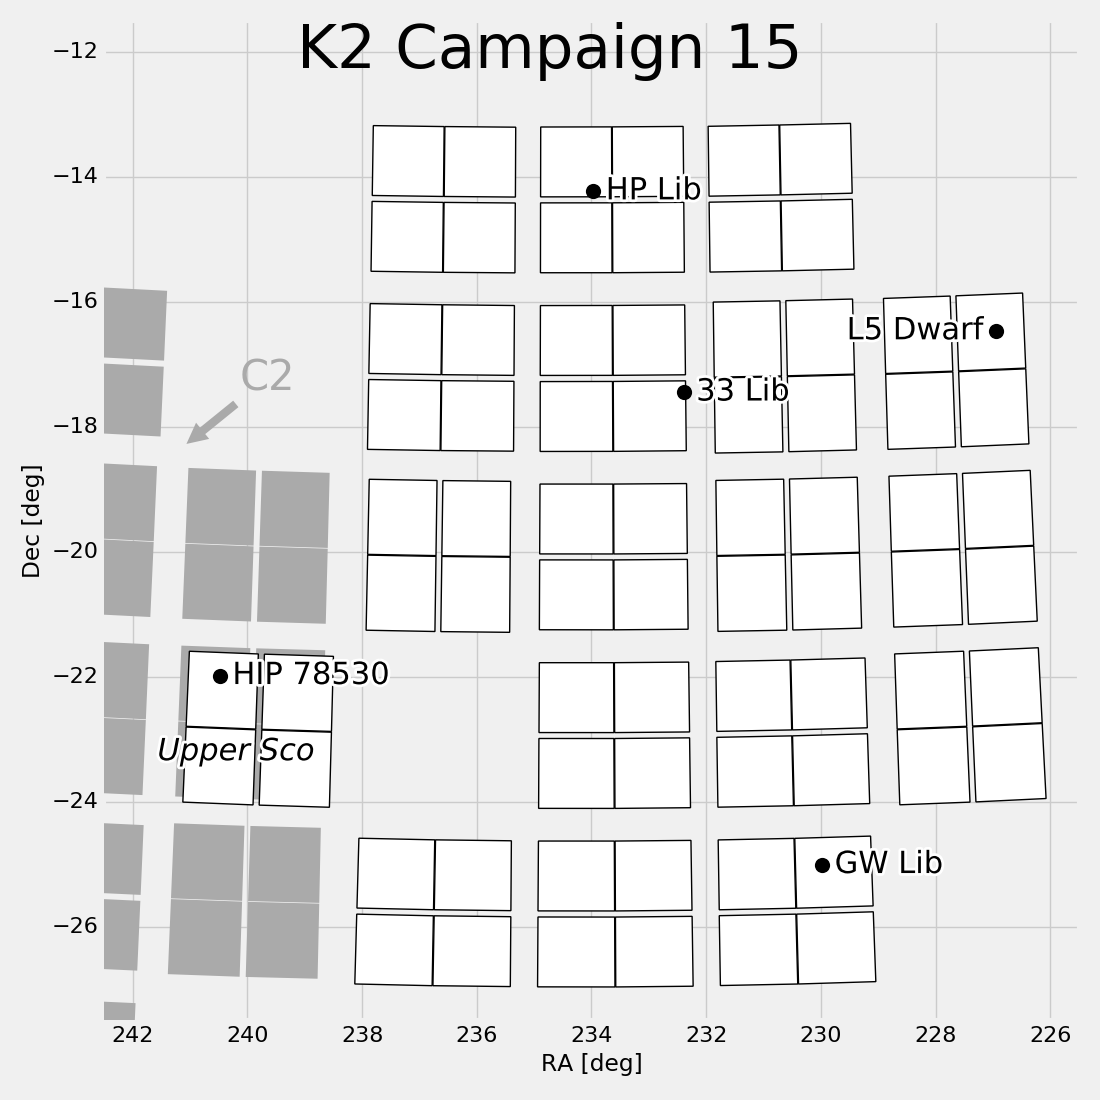
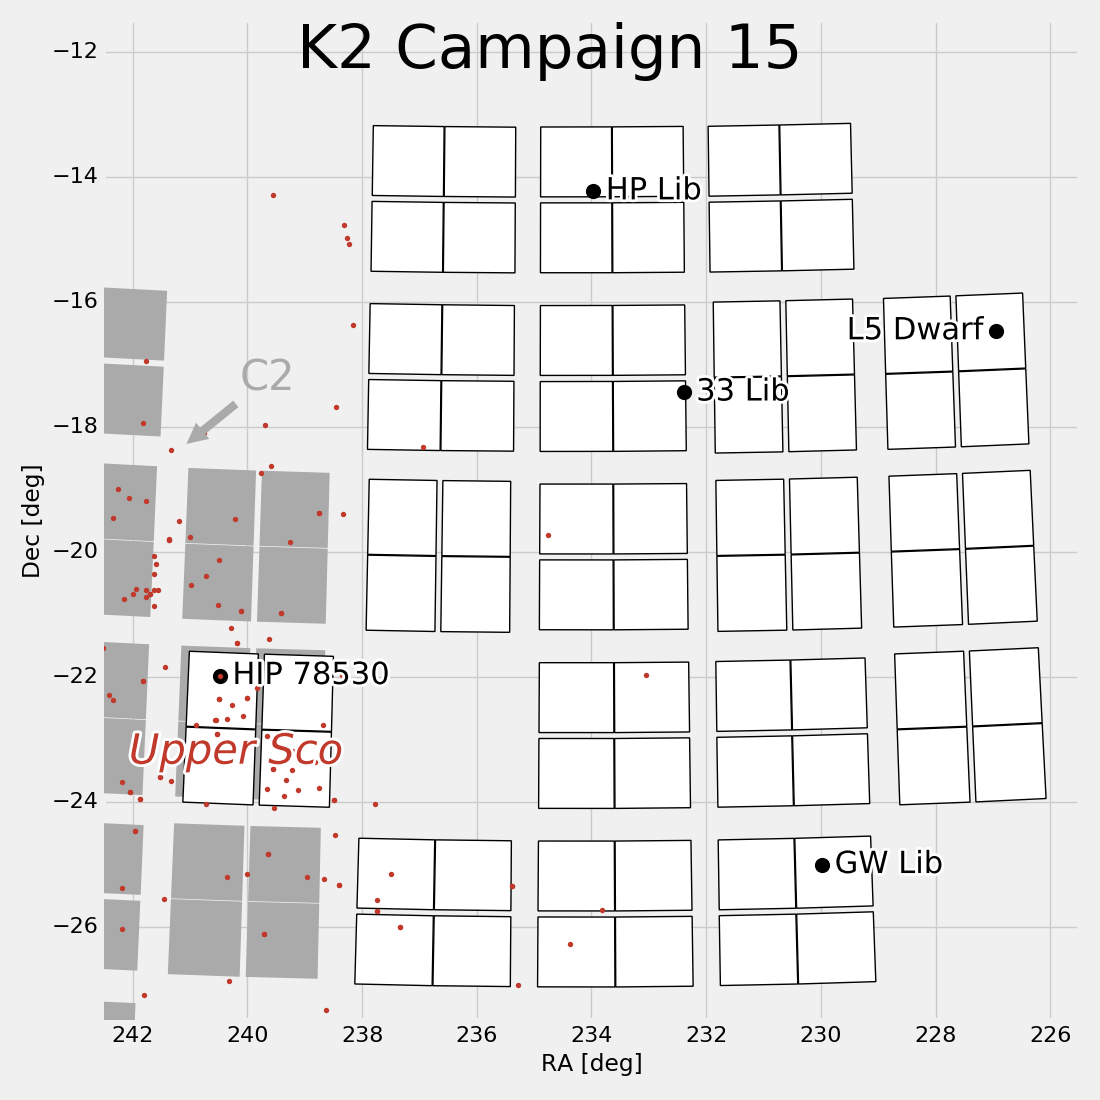
Add upper sco to the c15 plot

Changed region(s): [[0.0927, 0.6491, 0.3091, 0.7109], [0.1236, 0.5255, 0.1545, 0.5564]]

diff --git a/fieldplot.py b/fieldplot.py
@@ -1,13 +1,20 @@
 """Helper functions for creating K2 field plots."""
 from matplotlib import pyplot as pl
 import matplotlib.patheffects as path_effects
+from matplotlib.patches import Ellipse
 
 
-def annotate_target(ra, dec, text, ha='left', size=120, color='black'):
-    padding = -0.22
+def annotate_target(ra, dec, text, ha='left', size=120, color='black', extended=False):
+    if extended:
+        padding = -0.4
+        el = Ellipse((ra, dec), width=0.5, height=0.18, zorder=900,
+                     facecolor='#888888', edgecolor=color, lw=2.)
+        pl.axes().add_artist(el)
+    else:
+        padding = -0.22
+        pl.scatter(ra, dec, zorder=900, marker='o', lw=0, s=size, c=color)
     if ha == 'right':
         padding = -padding
-    pl.scatter(ra, dec, zorder=900, marker='o', lw=0, s=size, c=color)
     text = pl.text(ra + padding, dec, text, zorder=999, fontsize=22, va='center', ha=ha, color=color)
     text.set_path_effects([path_effects.Stroke(linewidth=4, foreground='white'),
                            path_effects.Normal()])

diff --git a/plot-c15.py b/plot-c15.py
@@ -28,8 +28,14 @@ annotate_target(240.48106314, -21.98038959, "HIP 78530")
 annotate_target(226.948721, -16.460728, "L5 Dwarf", ha='right')
 annotate_target(232.39476389, -17.44094162, "33 Lib")
 
-text = pl.text(240.2, -23.2, 'Upper Sco', style='italic',
-               zorder=999, fontsize=22, va='center', ha='center')
+
+# Plot Upper Sco
+import pandas as pd
+df = pd.read_csv('catalogs/upper-sco.csv')
+for member in df.iterrows():
+    annotate_target(member[1].RA_d, member[1].DEC_d, "", size=15, color='#c0392b')
+text = pl.text(240.2, -23.2, 'Upper Sco', style='italic', color='#c0392b',
+               zorder=999, fontsize=30, va='center', ha='center')
 text.set_path_effects([path_effects.Stroke(linewidth=4, foreground='white'),
                        path_effects.Normal()])
 
